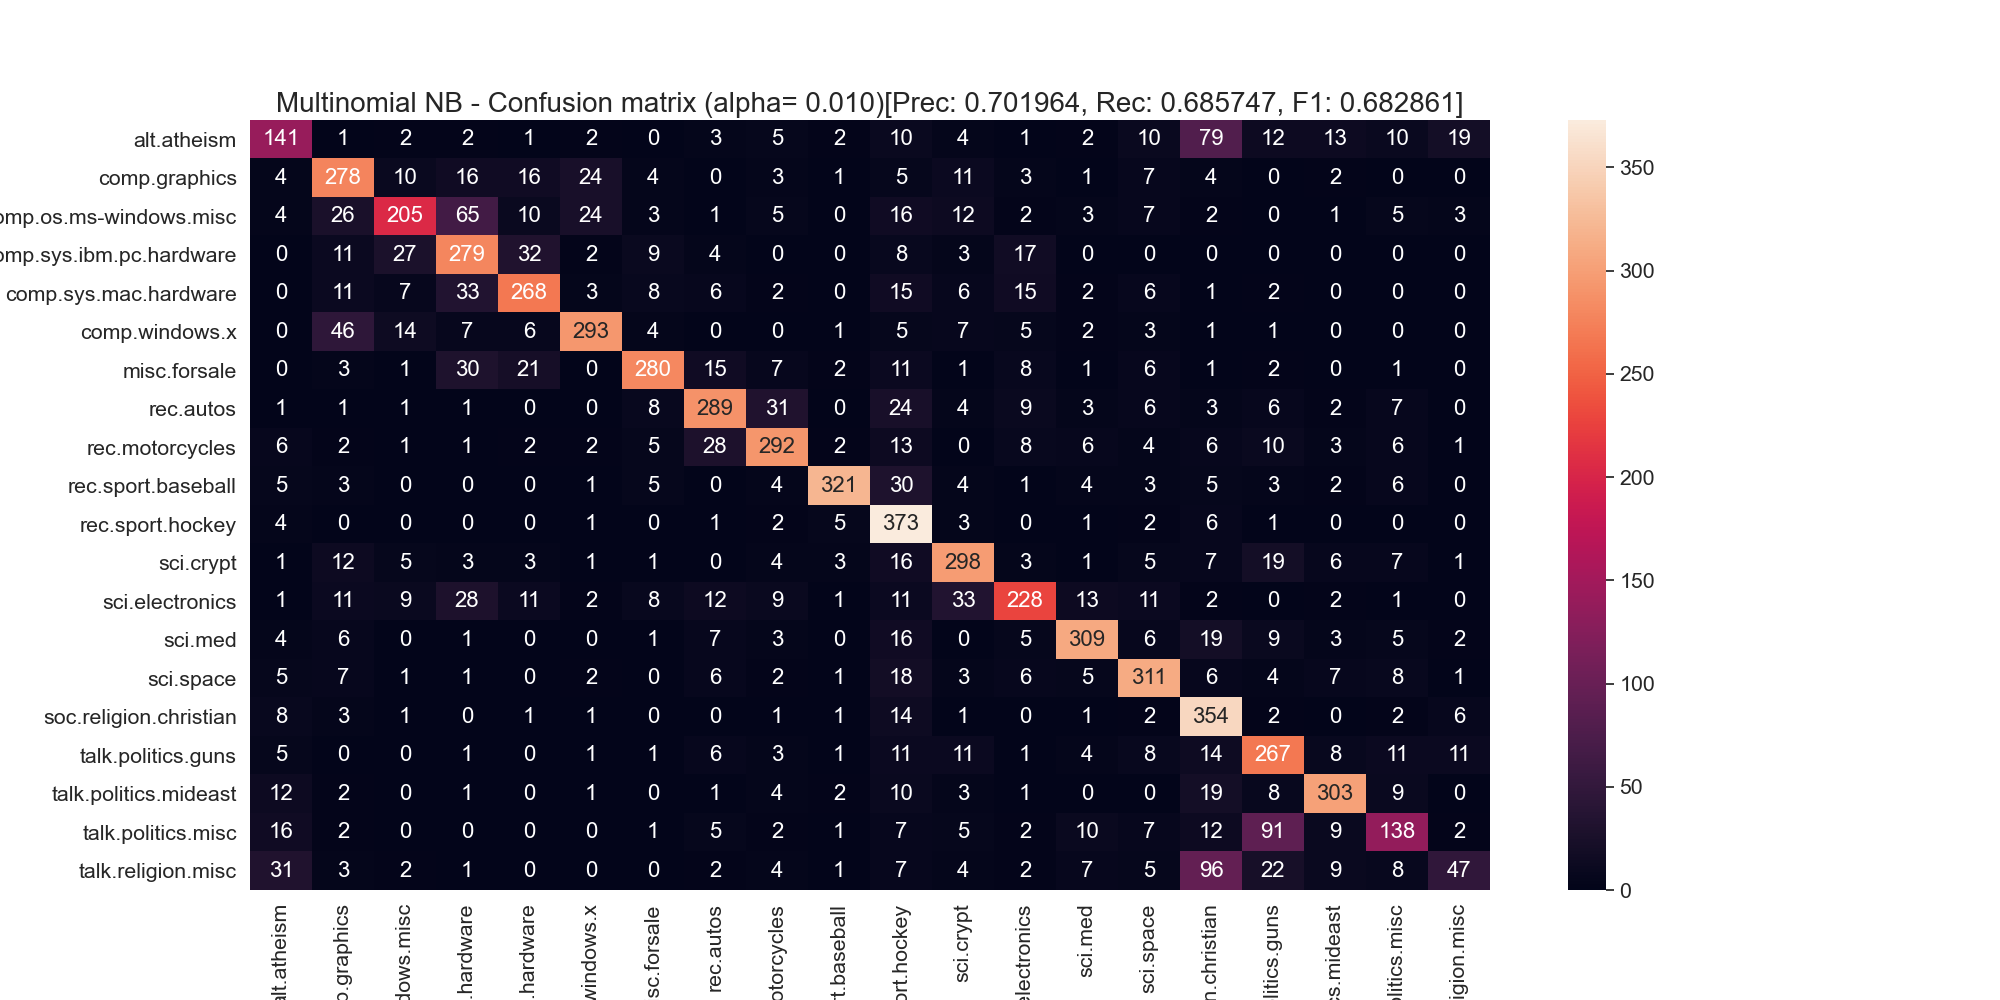
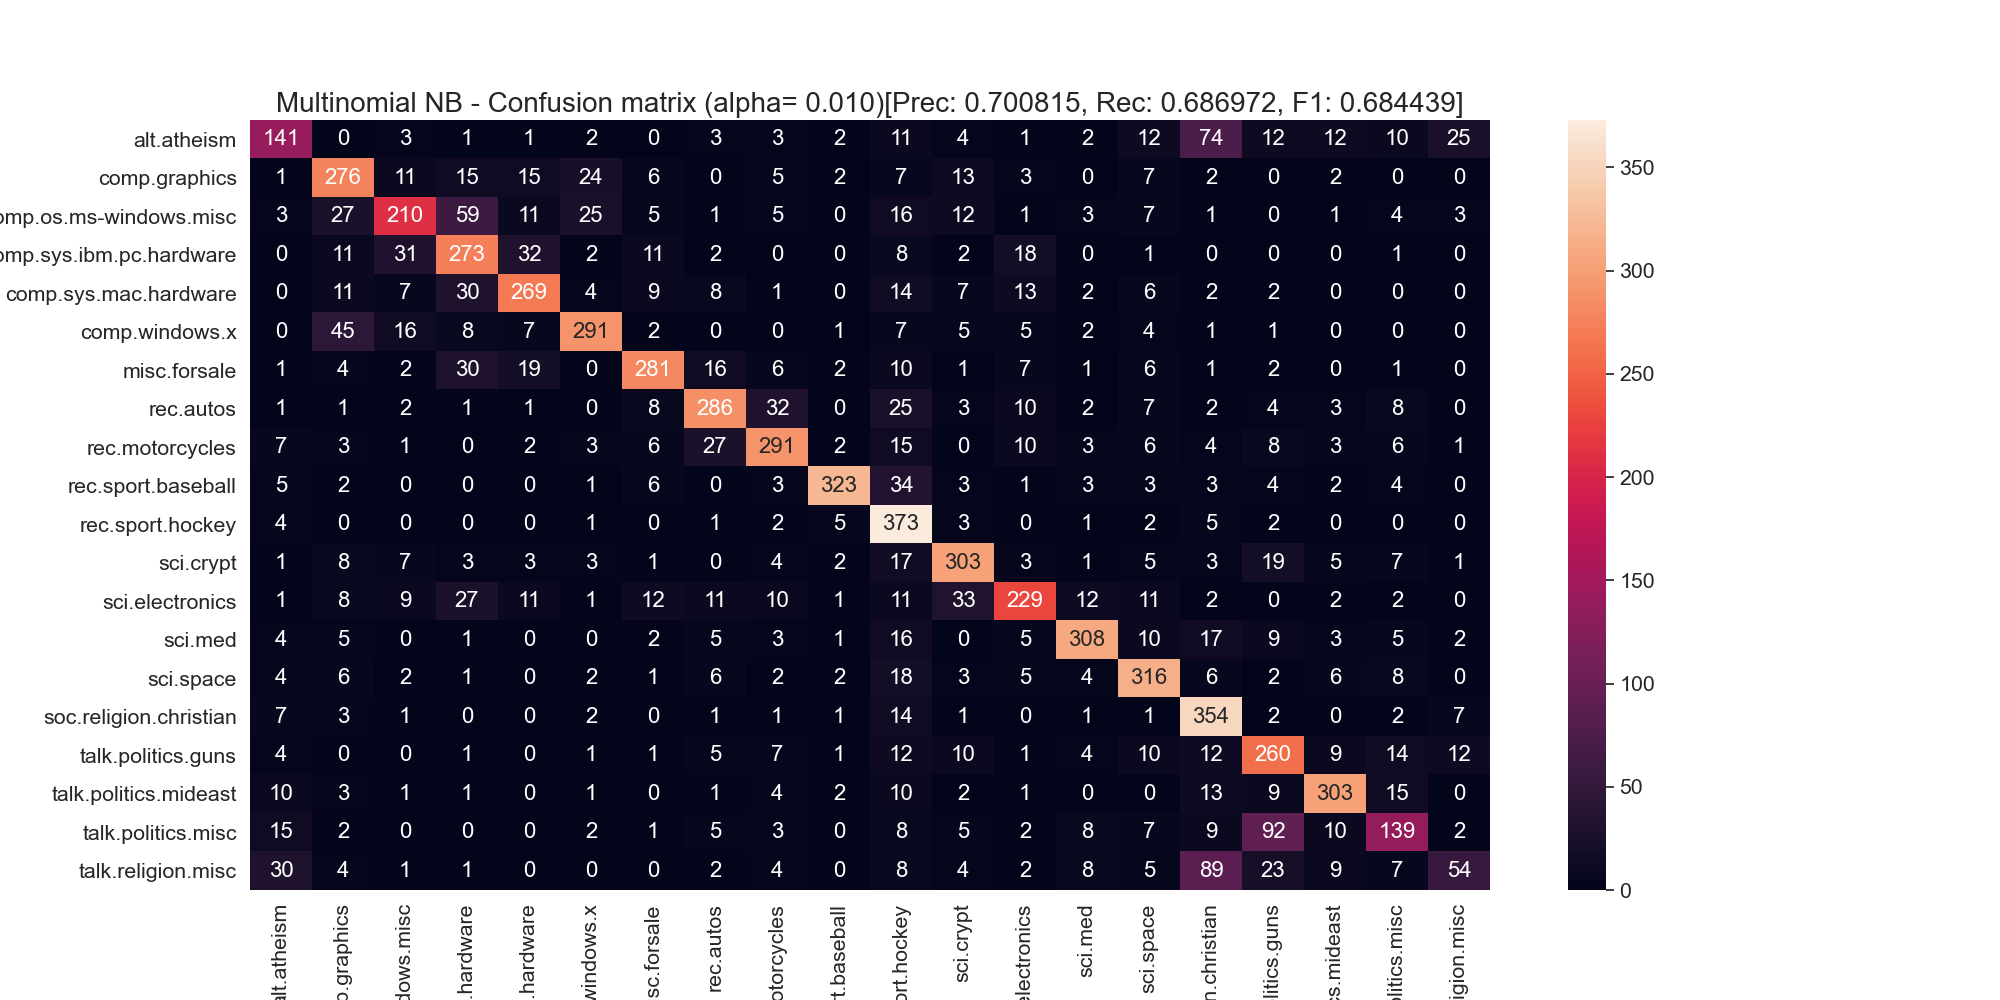
micro fixes

diff --git a/Project5/bayesian_learning.py b/Project5/bayesian_learning.py
@@ -11,19 +11,19 @@ import pandas as pd
 
 def bayesian_learning():
 	newsgroups_train = datasets.fetch_20newsgroups(
-		subset='train', random_state=44, remove=('headers', 'footers', 'quotes'))
+		subset='train', random_state=4, remove=('headers', 'footers', 'quotes'))
 
 	newsgroups_test = datasets.fetch_20newsgroups(
-		subset='test', random_state=44, remove=('headers', 'footers', 'quotes'))
+		subset='test', random_state=4, remove=('headers', 'footers', 'quotes'))
 
-	vectorizer = TfidfVectorizer()
+	vectorizer = TfidfVectorizer(stop_words='english', lowercase=True)
 
 	train_vectors = vectorizer.fit_transform(newsgroups_train.data)
 	test_vectors = vectorizer.transform(newsgroups_test.data)
 
 	mnb = MultinomialNB()
 	parameters = {'alpha': [.001, .004, .01, .04, .1, .4, 1, 4, 10]}
-	clf = GridSearchCV(mnb, parameters, verbose=2, cv=10)
+	clf = GridSearchCV(mnb, parameters, verbose=2, cv=10, n_jobs=-1)
 	clf.fit(train_vectors, newsgroups_train.target)
 
 	print("Best estimator: ", clf.best_estimator_)
@@ -32,7 +32,6 @@ def bayesian_learning():
 	prec = metrics.precision_score(newsgroups_test.target, pred, average='macro')
 	rec = metrics.recall_score(newsgroups_test.target, pred, average='macro')
 	f1 = metrics.f1_score(newsgroups_test.target, pred, average='macro')
-
 
 	print("prec: ", prec)
 	print("rec: ", rec)
